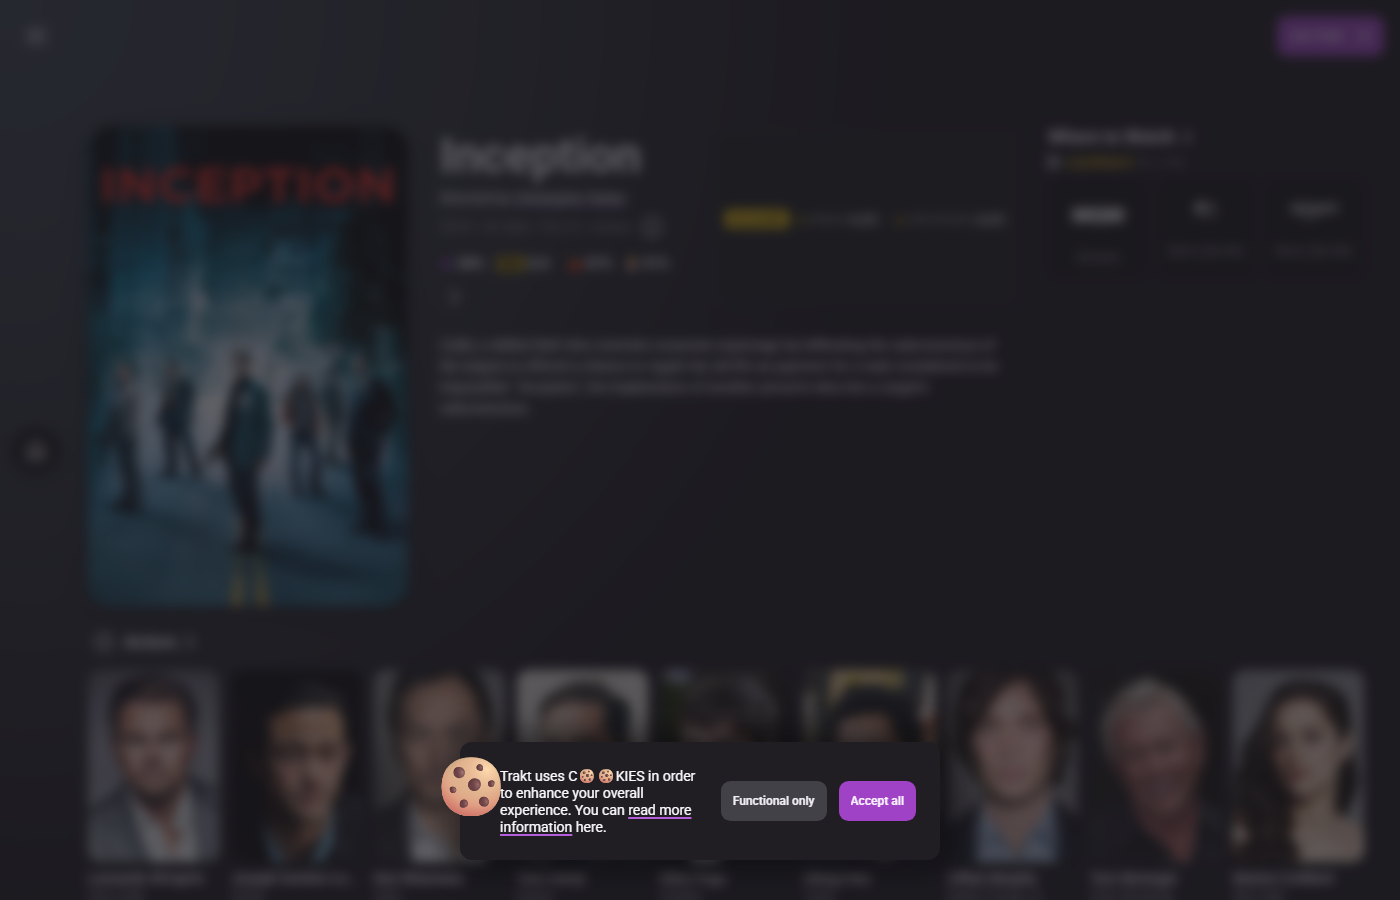
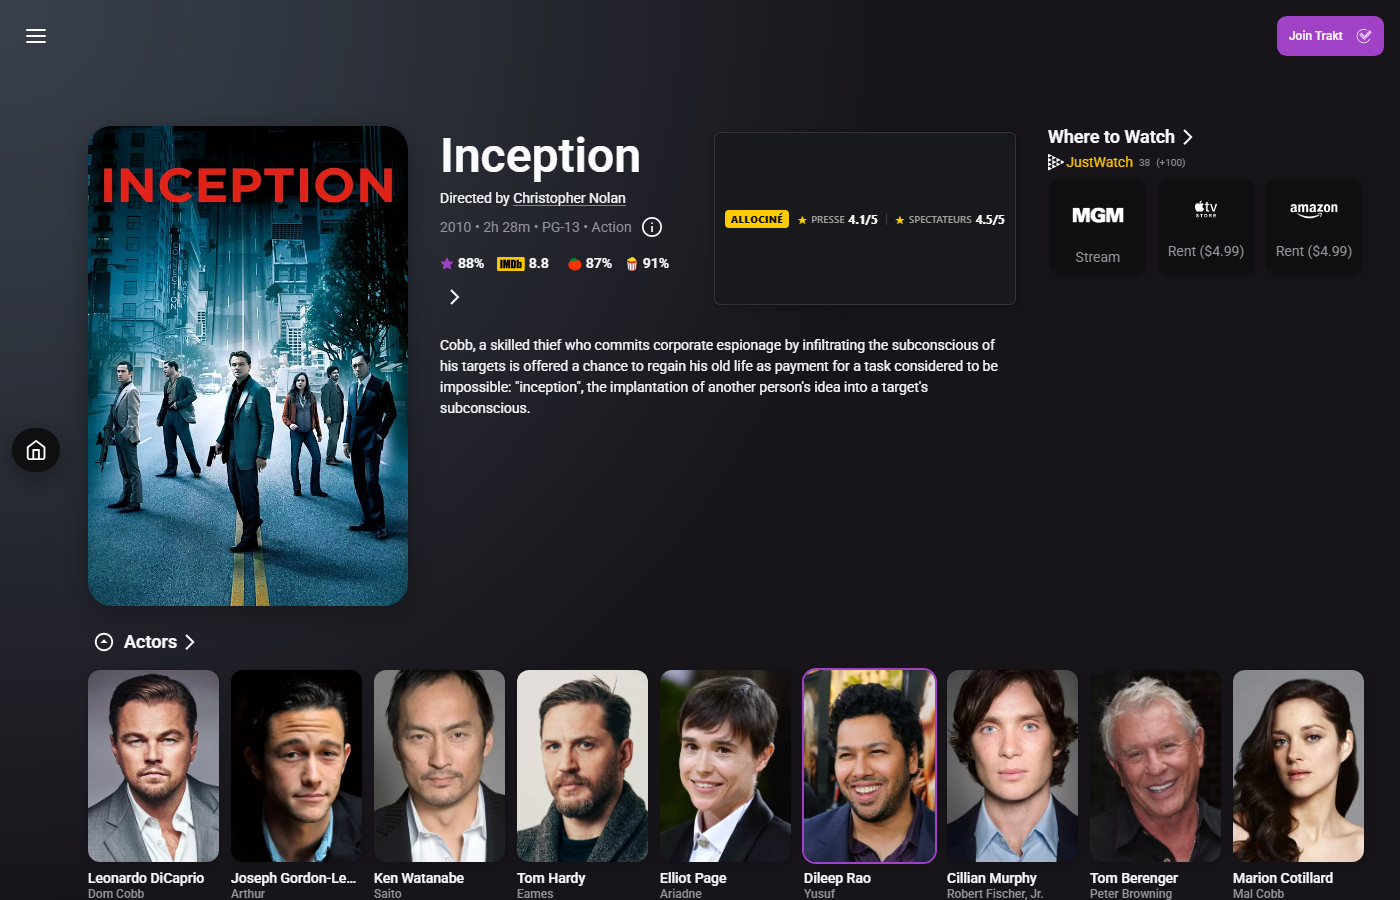
accept popup

diff --git a/tests/e2e.test.ts b/tests/e2e.test.ts
@@ -78,7 +78,48 @@ describe('Trakt.tv AlloCiné Userscript E2E Tests', () => {
 
       // Wait for rating badge
       await page.waitForSelector('#allocine-trakt-rating-badge', { timeout: 15000 });
-      await page.waitForTimeout(2500);
+      await page.waitForTimeout(1500);
+
+      // Auto-accept any cookie consent banners or popups
+      try {
+        const cookieSelectors = [
+          '#onetrust-accept-btn-handler',
+          'button:has-text("Accept All")',
+          'button:has-text("Accept")',
+          'button:has-text("Agree")',
+          'button:has-text("I Agree")',
+          'button:has-text("Allow All")',
+          'button[class*="cookie"]',
+          '[id*="cookie"] button',
+          '.qc-cmp2-summary-buttons button'
+        ];
+
+        for (const selector of cookieSelectors) {
+          const btn = page.locator(selector).first();
+          if (await btn.isVisible({ timeout: 1000 }).catch(() => false)) {
+            await btn.click({ force: true }).catch(() => {});
+            await page.waitForTimeout(500);
+            break;
+          }
+        }
+      } catch (e) {}
+
+      // Hide/remove cookie overlays via DOM fallback
+      await page.evaluate(() => {
+        const selectors = [
+          '#onetrust-consent-sdk',
+          '.cookie-banner',
+          '.cookie-consent',
+          '[class*="cookie"]',
+          '[id*="cookie"]',
+          '.qc-cmp2-container'
+        ];
+        selectors.forEach(sel => {
+          document.querySelectorAll(sel).forEach(el => el.remove());
+        });
+      });
+
+      await page.waitForTimeout(500);
 
       const badgeText = await page.textContent('#allocine-trakt-rating-badge');
       const cleanText = badgeText?.replace(/\s+/g, ' ').trim() || '';
